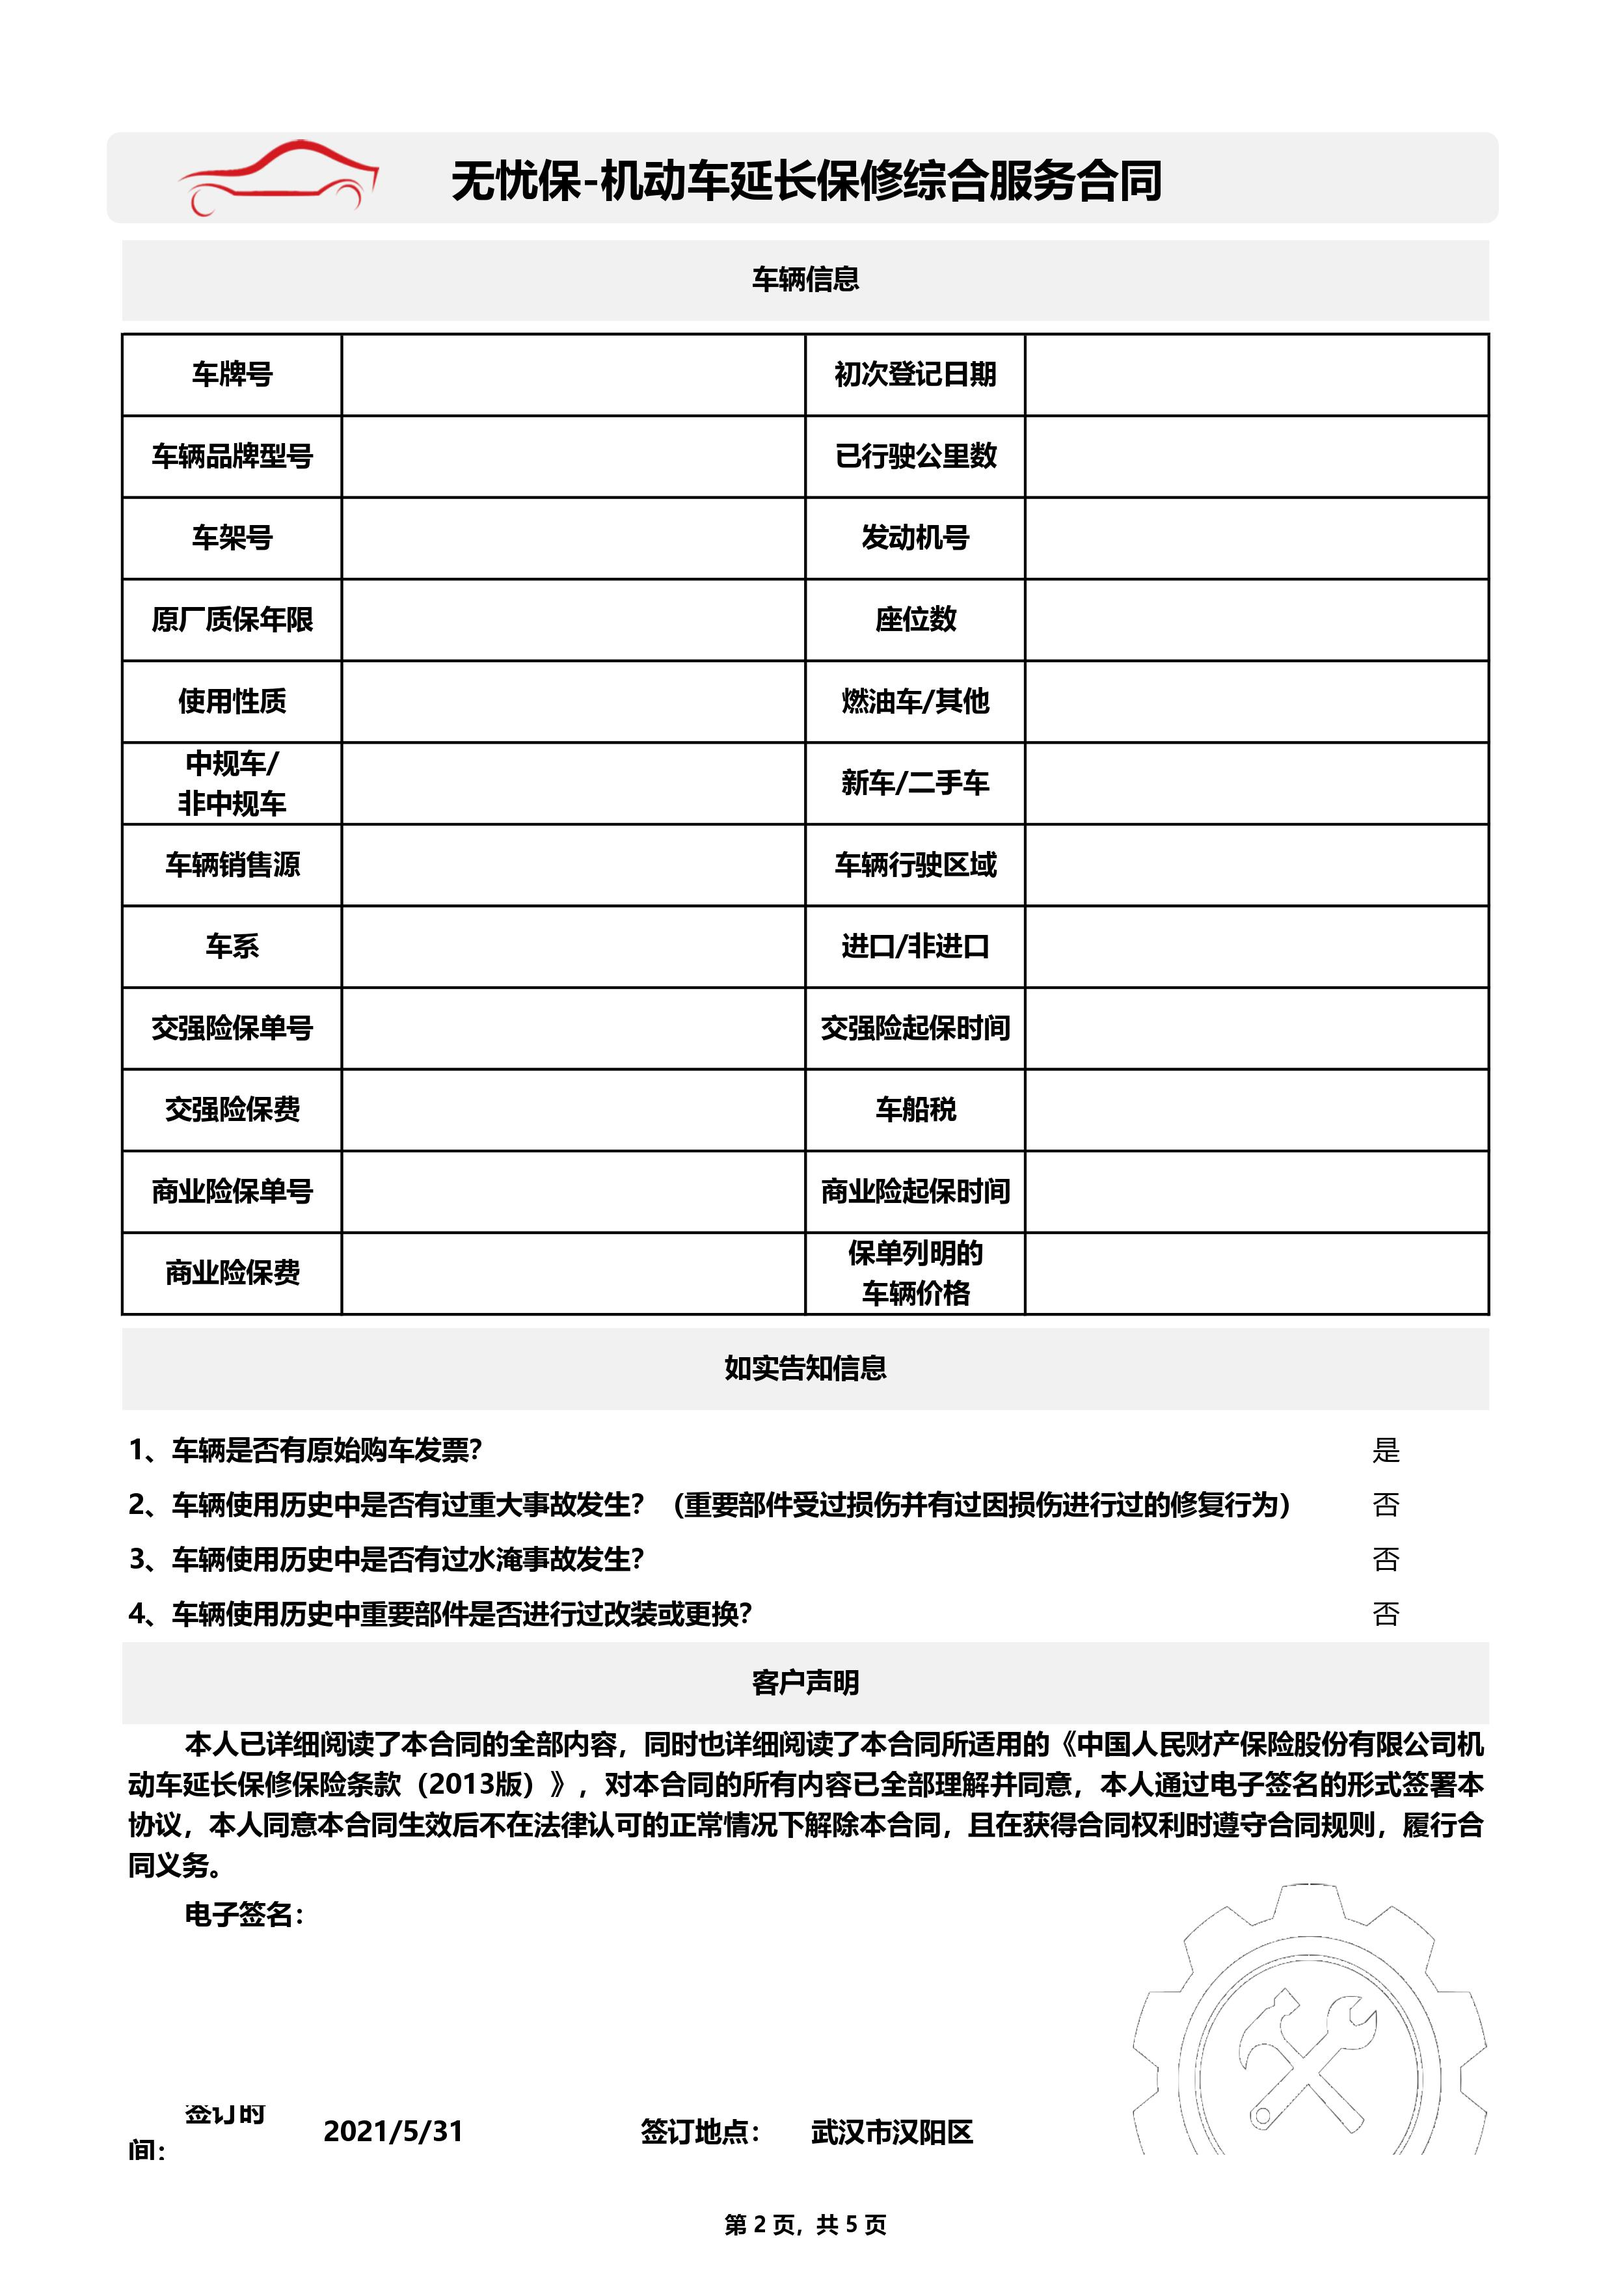
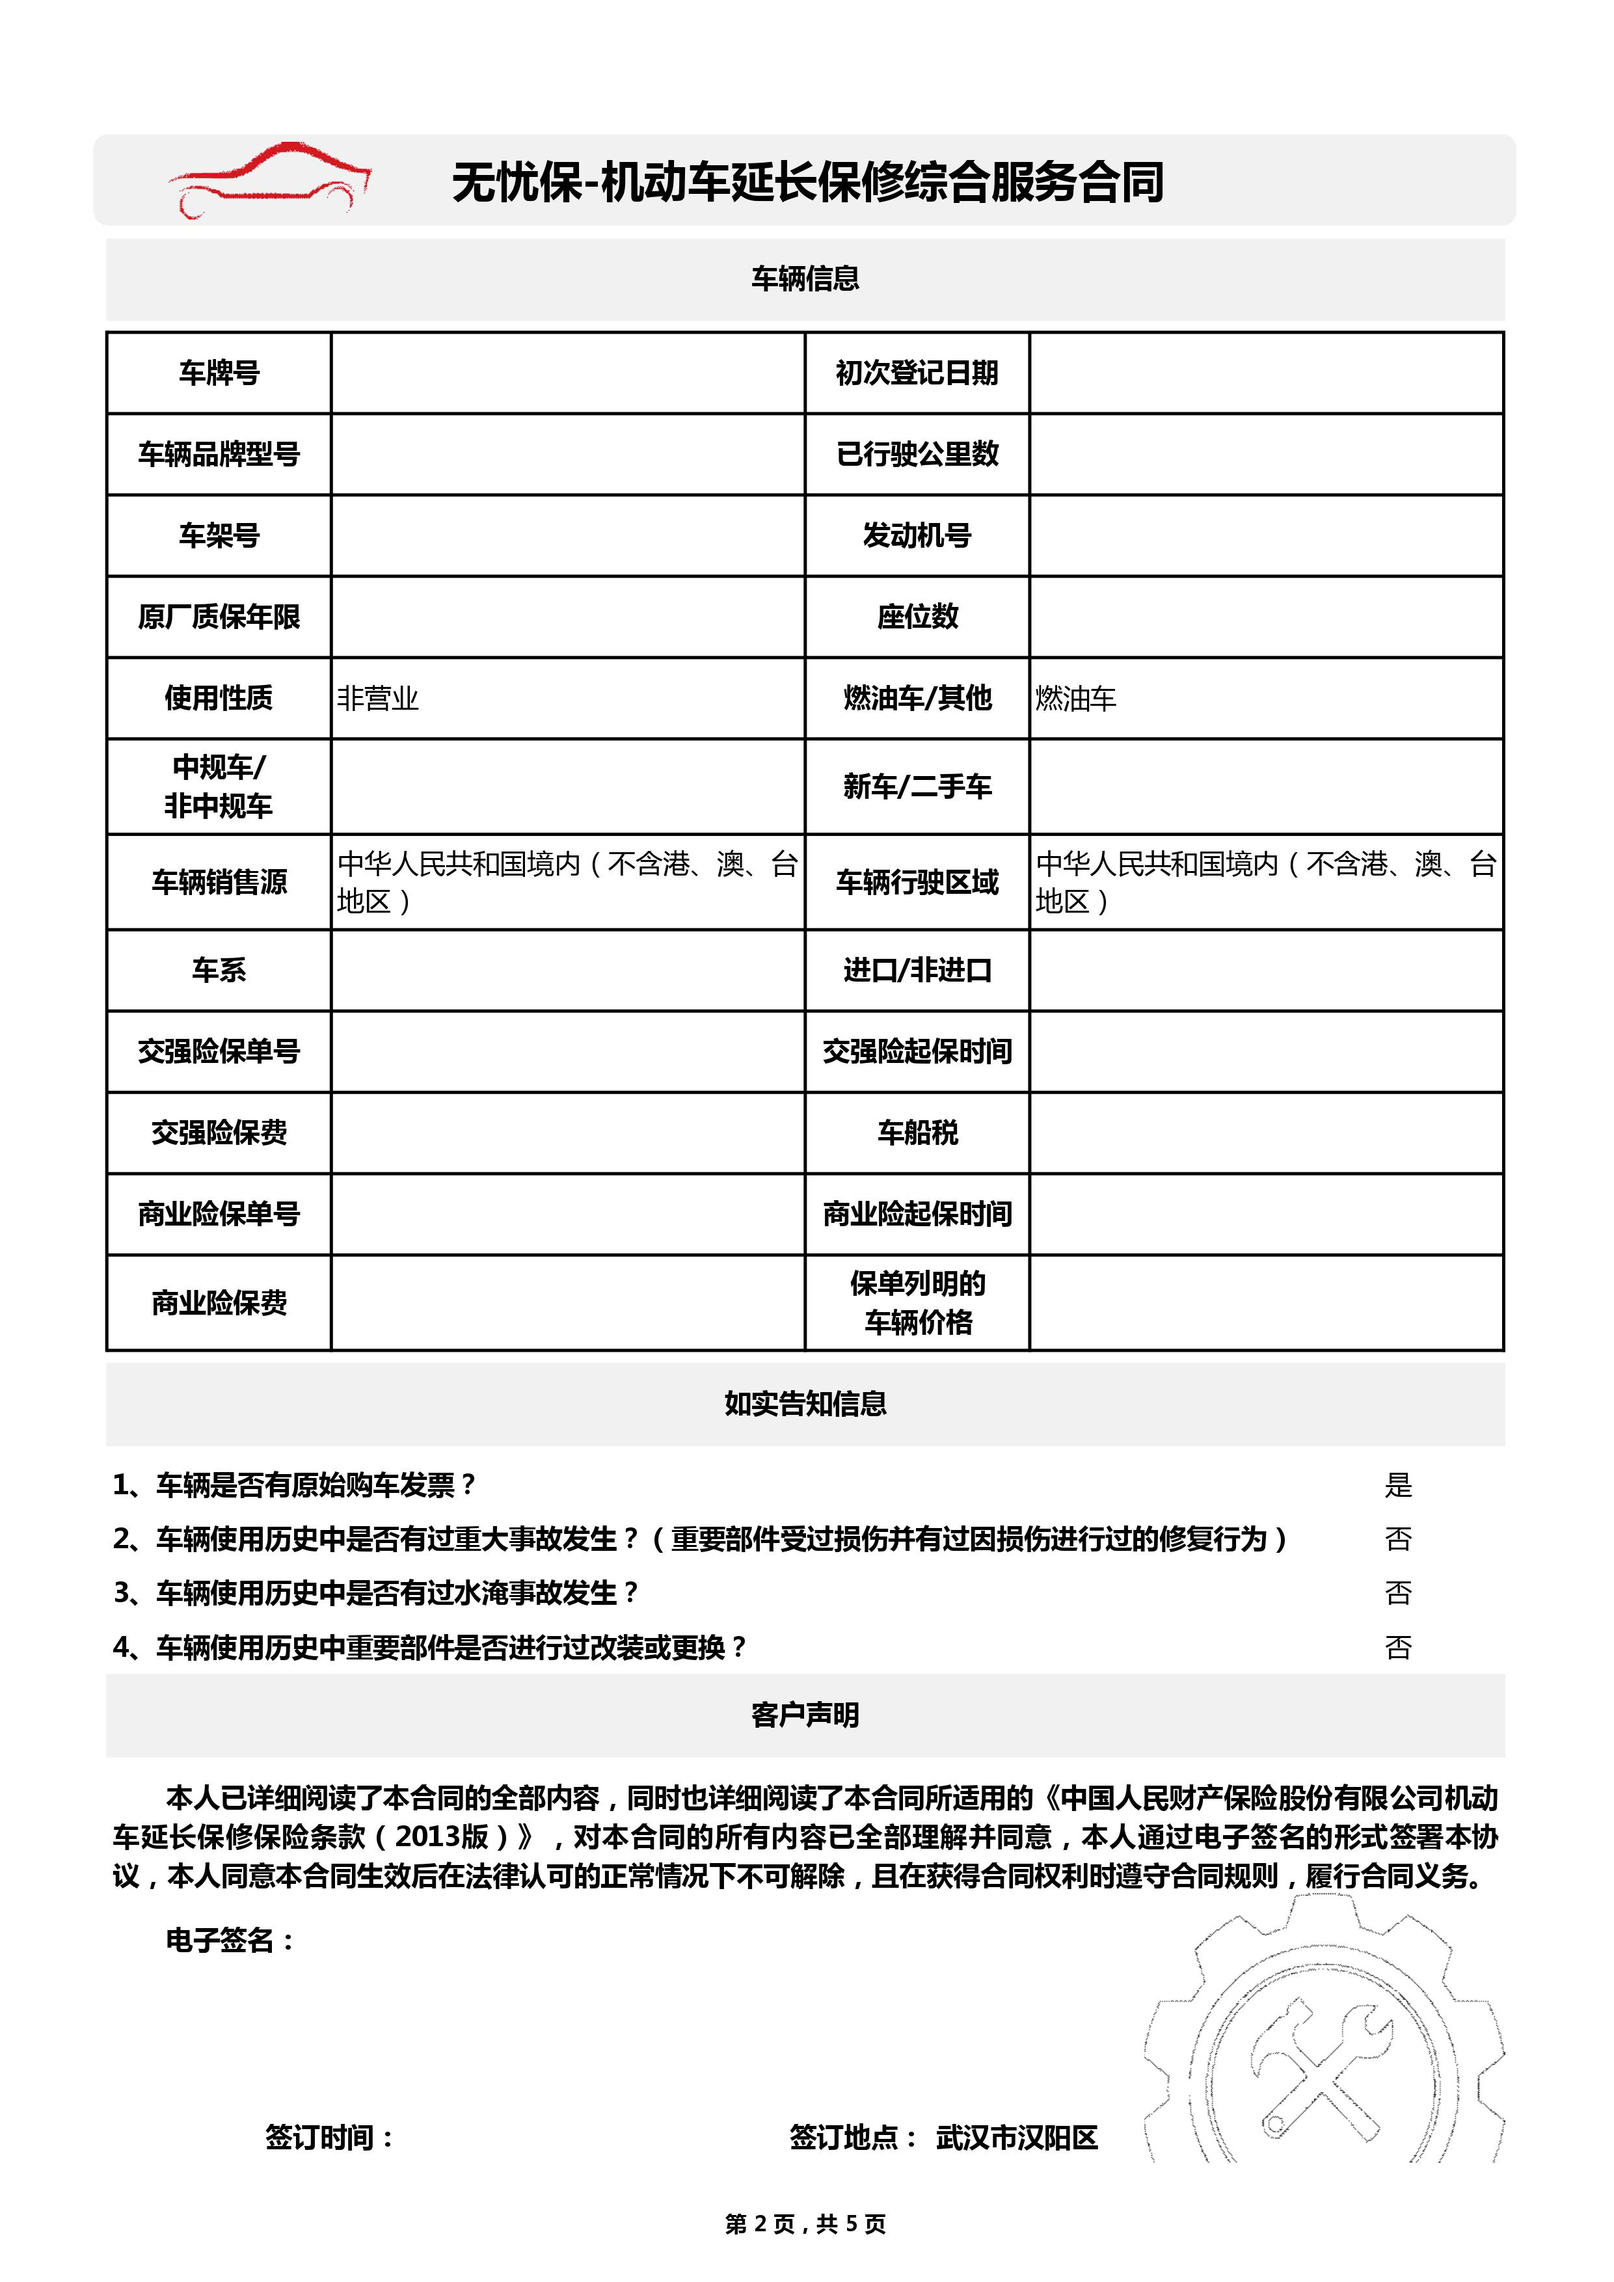
update

diff --git a/cloudfunctions/pdfkit/index.js b/cloudfunctions/pdfkit/index.js
@@ -15,6 +15,8 @@ const config = require('./data/config')
 /** 表格数据 */
 const formData = require('./data/form.json')
 
+/** 其他字段数据 */
+const textData = require('./data/text')
 
 /** 工具类 */
 const utils = require('./utils')
@@ -63,10 +65,10 @@ const getPDFBuffer = async () => {
 
       const drawRow = (lastOffsetY, row) => {
         /** 绘制边框，预览表格定位用代码 */
-        // drawRect({ offsetX: 0, offsetY: lastOffsetY, rowHeight: row.height, page })
+        // drawRect(doc, { offsetX: 0, offsetY: lastOffsetY, rowHeight: row.height, page })
         const drawFiled = field => {
           /** 绘制边框，预览表格定位用代码 */
-          // drawRect({ offsetX: field.startX, offsetY: lastOffsetY, rowHeight: row.height, column: field.column, color: 'blue', page })
+          // drawRect(doc, { offsetX: field.startX, offsetY: lastOffsetY, rowHeight: row.height, column: field.column, color: 'blue', page })
           /** 插入数据 */
           if (field.dataIndex && demoData[field.dataIndex]) {
             const fieldData = demoData[field.dataIndex]
@@ -80,7 +82,7 @@ const getPDFBuffer = async () => {
             })
             setText(doc, {
               text: fieldData,
-              color: config.TEXT_BLACK_COLOR,
+              color: config.TEXT_BLUE_COLOR,
               ...position
             })
           }
@@ -90,11 +92,27 @@ const getPDFBuffer = async () => {
         }
         return lastOffsetY + row.height
       }
-      const drawPage = (page) => page.rows.reduce(drawRow, 0)
+      const drawForm = (page) => page.rows.reduce(drawRow, 0)
       /** 绘制表格 */
-      drawPage(page)
+      drawForm(page)
+      /** 个别字段单独绘制 */
+      const curPageText = textData[index]
+      if (curPageText && curPageText.texts) {
+        const texts = curPageText.texts
+        texts.forEach(text => {
+          let fieldData = demoData[text.dataIndex]
+          if (text.formatter) {
+            fieldData = text.formatter(fieldData)
+          }
+          setText(doc, {
+            text: fieldData,
+            color: config.TEXT_BLUE_COLOR,
+            positionX: text.positionX,
+            positionY: text.positionY,
+          })
+        })
+      }
     })
-
     doc.end();
   })
 }

diff --git a/cloudfunctions/pdfkit/data/text.js b/cloudfunctions/pdfkit/data/text.js
@@ -1,0 +1,56 @@
+module.exports = [
+  {
+    "texts": [
+      {
+        "dataIndex": "contractCode",
+        "positionX": 67.5,
+        "positionY": 11.05
+      }
+    ]
+  },
+  {
+    "texts": [
+      {
+        "dataIndex": "signingTime",
+        "positionX": 25.7,
+        "positionY": 92.8
+      }
+    ]
+  },
+  {
+    "texts": [
+      {
+        "dataIndex": "extensionPeriod",
+        "positionX": 10.8,
+        "positionY": 23.45,
+        "formatter": (data) => `本合同延长保修责任${data[0]}月或${data[1]}公里，以先到者为准，但车辆总里程数不超过${data[2]}公里。`
+      },
+      {
+        "dataIndex": "deductible",
+        "positionX": 10.8,
+        "positionY": 31.1,
+        "formatter": (data) => `本合同每次事故绝对免赔为人民币${data[0]}元或损失金额的${data[1]}，两者以高者为准。`
+      }
+    ]
+  },
+  {},
+  {
+    "texts": [
+      {
+        "dataIndex": "saleStore",
+        "positionX": 22.3,
+        "positionY": 78.2,
+      },
+      {
+        "dataIndex": "contactAddr",
+        "positionX": 22.3,
+        "positionY": 79.9,
+      },
+      {
+        "dataIndex": "serviceLine",
+        "positionX": 22.3,
+        "positionY": 81.6,
+      }
+    ]
+  }
+]

diff --git a/cloudfunctions/pdfkit/utils/index.js b/cloudfunctions/pdfkit/utils/index.js
@@ -56,7 +56,7 @@ const getCenteredPostion = (doc, { offsetX = 0, offsetY = 0, column = DOC_MAX_CO
     needWrap = true
   }
   return {
-    positionX: containerX + 0.2,
+    positionX: containerX + 0.6,
     positionY: containerY + containerHeight / 2 - textHeight / 2,
     needWrap,
     containerWidth,
